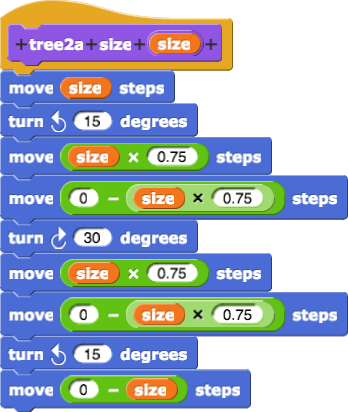
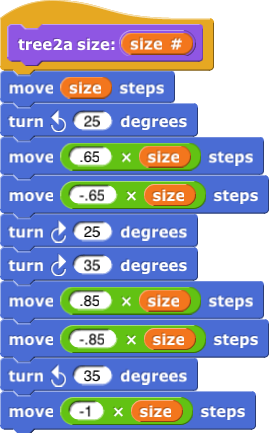
Fixing U6L1P1.

diff --git a/cur/programming/6-recursion/1-trees/1-recursive-tree.html b/cur/programming/6-recursion/1-trees/1-recursive-tree.html
@@ -9,8 +9,8 @@
 	<body>
 		<h2>Recursive Tree</h2>	
         <p>The branching pattern on many plants has what is called <strong>fractal</strong> structure: the smaller parts are like miniature copies of the whole. <br />
-            <div class="sidenoteBig">A <strong>fractal</strong> is an infinite repeating pattern made up of copies (or slight variations) of the same shape.</div>
-            <img class="indent noshadow" src="/bjc-r/img/6-recursion/recursive-tree.gif" alt="fractal tree" title="fractal tree" /><br />
+            <div class="sidenoteBig">A <strong>fractal</strong> is an infinite repeating pattern made up of copies (or slight variations) of the same shape. In this picture, the green tree is (essentially) the same shape as the entire picture.</div>
+            <img class="noshadow" src="/bjc-r/img/6-recursion/greentree.gif" alt="fractal tree" title="fractal tree" /><br />
             In this lab, you will build a tree using <em>blocks within blocks</em> to create the branches. Each branch will be a smaller copy of essentially the same tree.
         </p>
 
@@ -22,38 +22,40 @@
                       <ol>
                         <li>
                             Build this <code>tree1</code> block: <br />
-                            <img class="indent" src="/bjc-r/img/6-recursion/tree1.png" alt="tree1 block definition" title="tree1 block definition" />
+                            <img class="indent" src="/bjc-r/img/6-recursion/tree1.png" alt="tree1 block definition" title="tree1 block definition" /><br />This looks ridiculously simple, but trust us, it'll get interesting soon.
                         </li>
                         <li>                    
                         	Point the sprite up, put the pen down, and run <code>tree1 size: 50</code>. You should get a result like this: <br />
 							<img class="indent" src="/bjc-r/img/6-recursion/tree-level1.png" alt="tree1 result" title="tree1 result" />
                     	</li>
-                        <li><img class="inline" src="/bjc-r/img/icons/talk-with-your-partner-mini.png" alt="Talk with Your Partner" title="Talk with Your Partner" /> Where does your sprite start? Where does it stop?</li>
+                        <li><img class="inline" src="/bjc-r/img/icons/talk-with-your-partner-mini.png" alt="Talk with Your Partner" title="Talk with Your Partner" /> Where does your sprite start? In what direction is it facing? Where does it stop?</li>
                     </ol>
                 </li>
                 <li> 
                     Building the second level:
 <ol>
                     	<li>
-                        	Build <code>tree2</code>, using <code>tree1</code> as the branches:<br />
-                    		<div class="sidenote">Using <code>tree1</code> to draw the branches in <code>tree2</code> is using <em>abstraction</em>.</div>
-                            <img class="indent" src="/bjc-r/img/6-recursion/tree2.png" alt="tree2 block definition" title="tree2 block definition" />
-                        </li>
-                        <li>
-                        	Run <code>tree2 size: 50</code>. You should get a result like this:<br />
+                       	Build <code>tree2</code> that draws two levels. Actually, you're going to make two different versions of this, so call the first one <code>tree2a</code>:<br />
+<img src="/bjc-r/img/6-recursion/tree2a.png" alt="tree2a">                        </li>
+                     <li>
+                        	Run <code>tree2a size: 50</code>. You should get a result like this:<br />
                         	<img class="indent" src="/bjc-r/img/6-recursion/tree-level2.jpg" alt="tree2 result" title="tree2 result" />
-                        </li>
+        </li>
                         <li>
                         	<img class="imageRight" src="/bjc-r/img/icons/talk-with-your-partner.png" alt="Talk with Your Partner" title="Talk with Your Partner" />
                             Trace through the code carefully. Describe the role of each block in producing the drawing.
                         </li>
-						<li>Describe <em>exactly</em> the position of the sprite when <code>tree1</code> stops running. Why is that essential for <code>tree2</code> to work?</li>
+</ol></li></ol></div>
+                        <div class="takeItFurther"><ol type="A">
+                          <li>How many blocks would you need to write <code>tree3a</code> out of Motion blocks similarly to how we wrote <code>tree2a</code>? How about <code>tree4a</code>?</li></ol></div>
+<div class="forYouToDo"><ol  start="3">                    		<div class="sidenote">Using <code>tree1</code> to draw the branches in <code>tree2</code> is using <em>abstraction</em>.</div>
+                            
+<li>That <code>tree2a</code> block is pretty long and repetitive. But we can simplify it if we notice that in two places it has a move forward/move back pair of blocks, and that this is what <code>tree1</code> does! So we can use <code>tree1</code> to shorten <code>tree2</code>. Compare the code below to convince yourself that the new <code>tree2</code> will work the same as the original <code>tree2a</code>.<br /><img class="indent" src="/bjc-r/img/6-recursion/tree2.png" alt="tree2 block definition" title="tree2 block definition" />                      </li>
+						<li>Describe exactly the position and direction of the sprite when the first <code>tree1</code> stops running. Why is that essential for <code>tree2</code> to work?</li>
                     </ol>
-                </li>
-            </ol>
-        </div>
+    </div>
 		
-        <div class="takeNote"><strong>State transparency</strong> (changing only what you need to and nothing else) is important when using blocks within blocks. Usually, this means returning the sprite to the same position and direction as it started.</div>
+        <div class="takeNote"><strong>State transparency</strong> (undoing any changes you make) is important when  blocks depend on other blocks. Usually, this means returning the sprite to the same position and direction as it started.</div>
         
         <div class="forYouToDo">
             <ol start="3">
@@ -61,37 +63,27 @@
                 <li>Make a <code>tree3</code> block that uses the <code>tree2</code> block.</li>
                 
               <li>Make a <code>tree4</code> block that uses the <code>tree3</code> block.</li>
-                <div class="endnote">
-                	Right-click (or control-click on a mac) a block to "duplicate" or "relabel" blocks to make these tasks much faster.<br />
-                    <p class="center"><img src="/bjc-r/img/6-recursion/dup-and-relabel.gif" alt="duplicate and relabel menu options" title="duplicate and relabel menu options" /></p>
-                </div>
                 <li>
-                    Make a <code>tree5</code> block that uses the <code>tree4</code> block. Running <code>tree5 size: 50</code> should produce a result like this:<br />
-                    <img class="indent" src="/bjc-r/img/6-recursion/tree5.jpg" alt="tree5 size: 50" title="tree5 size: 50" /> 
+                    If you can stand it, make a <code>tree5</code> block that uses the <code>tree4</code> block. Running <code>tree5 size: 50</code> should produce a result like this:<br />
+                    <img class="indent" src="/bjc-r/img/6-recursion/tree5.png" alt="tree5 size: 50" title="tree5 size: 50" /> 
                 </li>
             </ol>
     	</div>
-        
+<p><img src="/bjc-r/img/icons/save-now.png" alt="Now Is a Good Time to Save" title="Now Is a Good Time to Save" />        
 		
-        <p><img class="inline" src="/bjc-r/img/icons/take-turns-speaking-mini.gif" alt="Take turns speaking" title="Take turns speaking"> These blocks are very similar. <code>tree5</code> uses <code>tree4</code> exactly the same way that <code>tree4</code> uses <code>tree3</code>, and so on, down to <code>tree1</code>. We can use that fact to write a <code>tree</code> block that uses <code>tree</code> itself in its own script.</p>
+        <p><img class="inline" src="/bjc-r/img/icons/take-turns-speaking-mini.gif" alt="Take turns speaking" title="Take turns speaking"> These blocks all look exactly the same, don't they? So it makes sense to wonder if we can replace them all with a single <code>tree</code> block. The differences between numbered blocks are only that <code>tree5</code> uses <code>tree4</code>, while <code>tree4</code> uses <code>tree3</code>, and so on. We can use that fact to write a <code>tree</code> block that uses <code>tree</code> itself in its own script, provided that we replace the numbers in the names with another input to keep track of the level.</p>
         <div class="takeNote center">Using a block inside of itself is called <strong>recursion</strong>.</div>
-        <p>The <em>recursive</em> <code>tree</code> block needs to know which <var>level</var> tree it is drawing, so, it needs a second variable <var>level</var>. When <code>tree</code> is called with <var>level</var> 5, it will call two trees of <var>level</var> 4; each of them will call two trees of <var>level</var> 3, and so on, until <var>level</var> 1. (This is just like how <code>tree5</code> called <code>tree4</code>, and <code>tree4</code> called <code>tree3</code>, and so on.)</p>
+        <p>When <code>tree</code> is called with <var>level</var> 5, it should draw the same picture as <code>tree5</code>, so it will draw two trees of <var>level</var> 4; each of them will draw two trees of <var>level</var> 3, and so on. </p>
 
 
 		<div class="forYouToDo">
             <ol start="6">
                 <li>
-                    This is the general idea for the <em>recursive</em> version of <code>tree</code>.  Build it:<br />
+                    Build this block:<br />
             		<img class="indent" src="/bjc-r/img/6-recursion/tree-nobase.png" alt="buggy tree block definition" title="buggy tree block definition" />
                 </li>
                 <li>
-                	Now run <code>tree level: 9 size: 50</code>. It doesn't work yet. All you see is: <br />
-					<img class="indent" src="/bjc-r/img/6-recursion/treebug.jpg" alt="picture of failing tree" title="picture of failing tree" />
-                </li>
-                <li><img class="inline" src="/bjc-r/img/icons/talk-with-your-partner.png" alt="Talk with Your Partner" title="Talk with Your Partner" /> Try to debug the script. What's going wrong?</li>
-            </ol>
-        </div>                    
-        
+<img class="inline" src="/bjc-r/img/icons/talk-with-your-partner.png" alt="Talk with Your Partner" title="Talk with Your Partner" />               	Now try the <code>tree</code> block. What happens? <em>Why</em> does it happen? When you know the answer, go to the next activity.</li>
 
 	</body>
 </html>

diff --git a/cur/programming/6-recursion/1-trees/2-base-case.html b/cur/programming/6-recursion/1-trees/2-base-case.html
@@ -7,7 +7,7 @@
 	</head>
 
 	<body>
-		<h2>The Importance of the Base Case</h2>	
+		<h2>The Base Case</h2>	
         <p>
         	<div class="sidenote">Recall, <em>recursive</em> means a script that calls itself.</div>
         	We first tried to build the recursive tree by using the same script as for <code>tree2</code>, <code>tree3</code>, etc. and replacing the call to a lower-level tree with a call to <code>tree</code> itself but with a lower level input, like this:<br />
